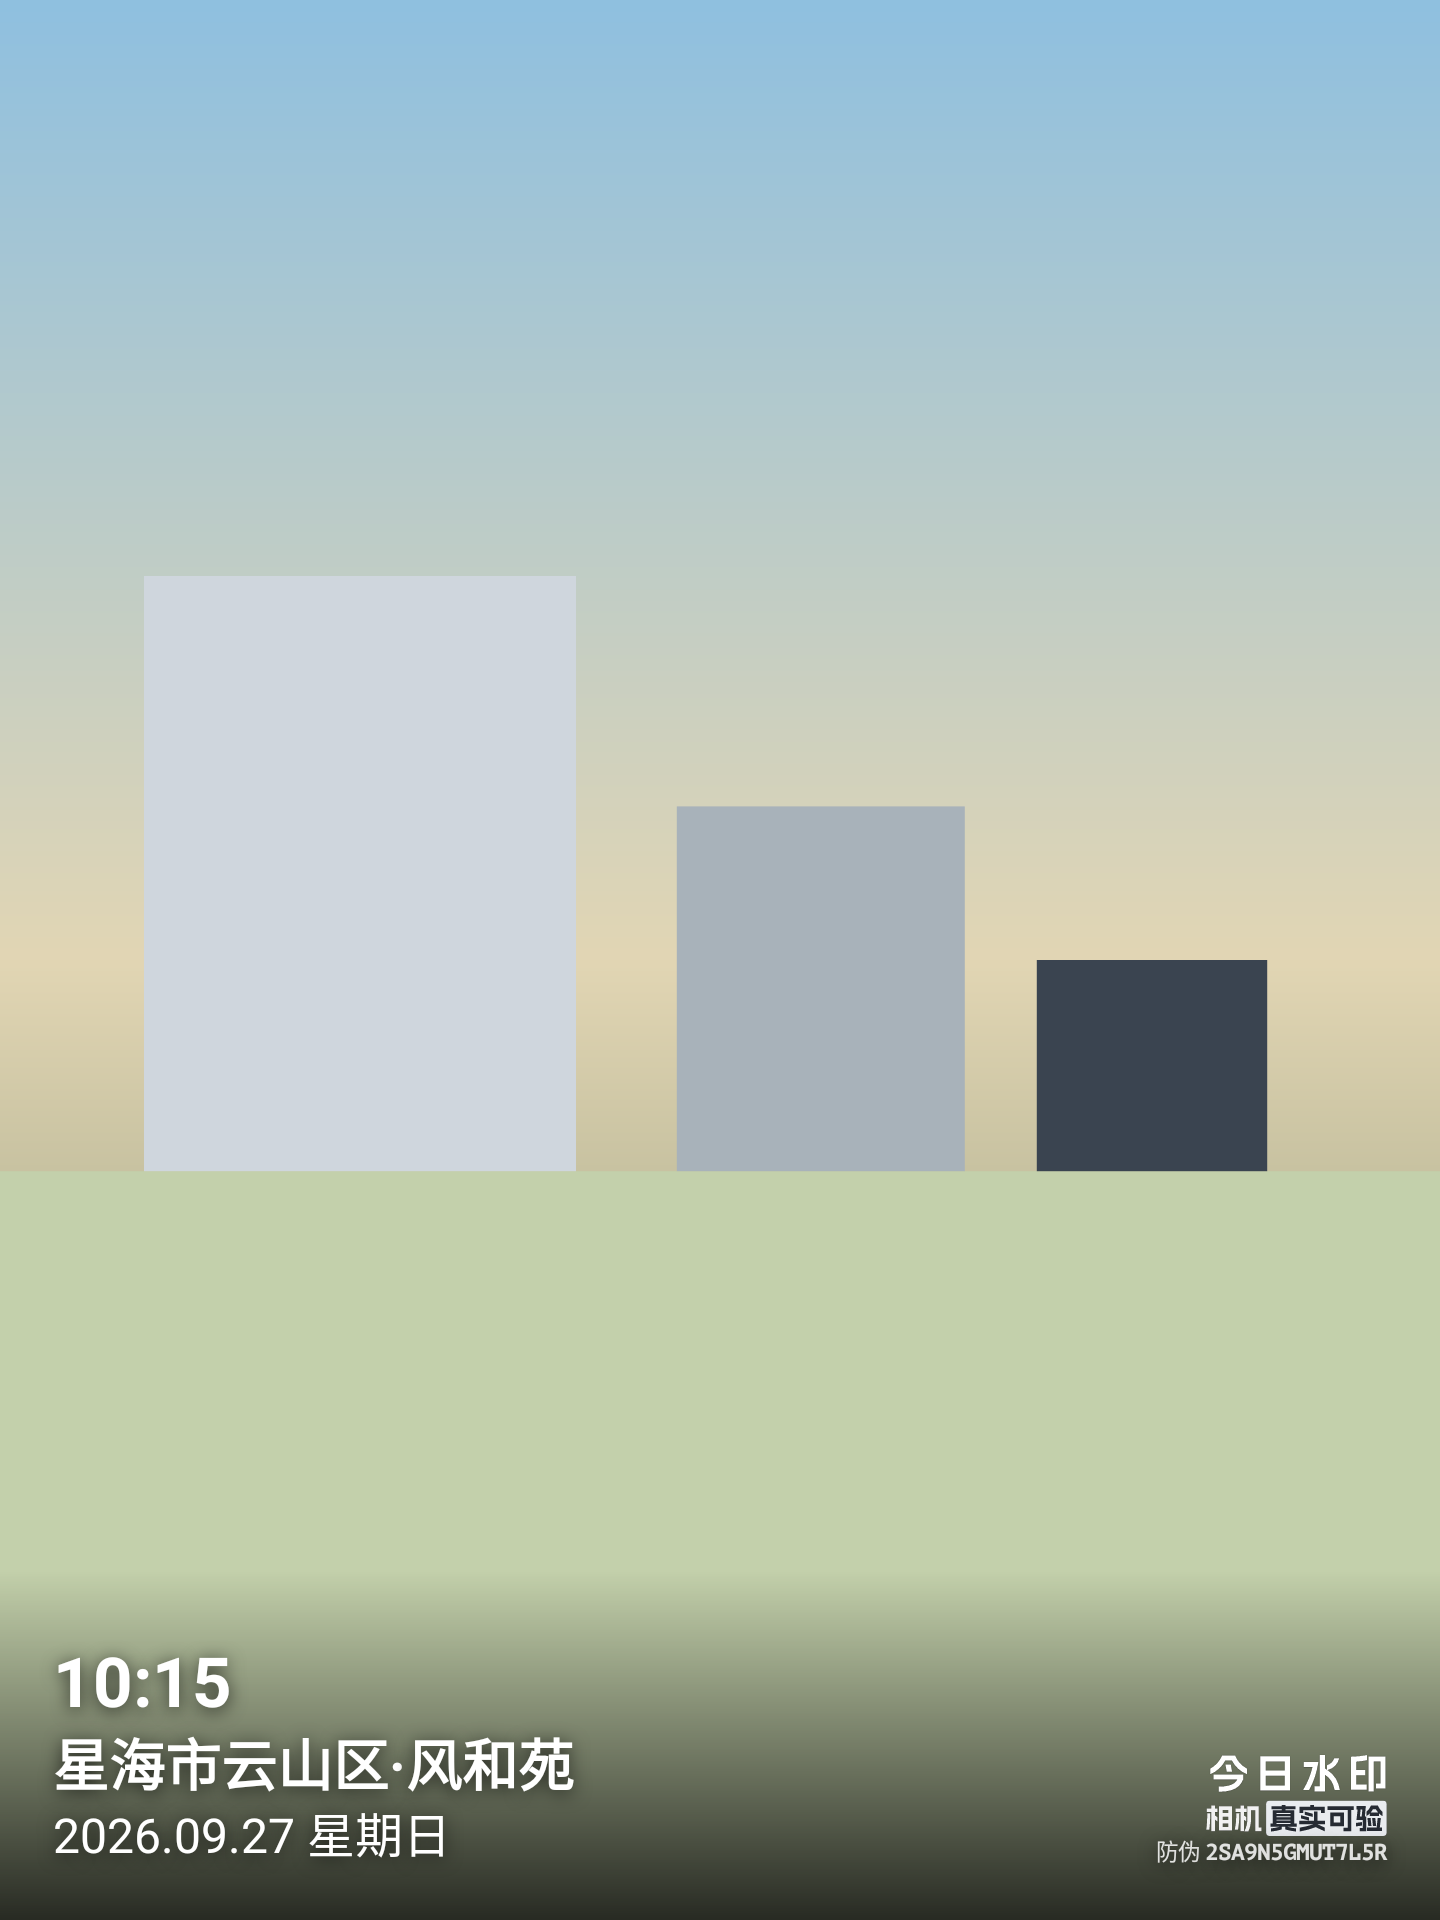
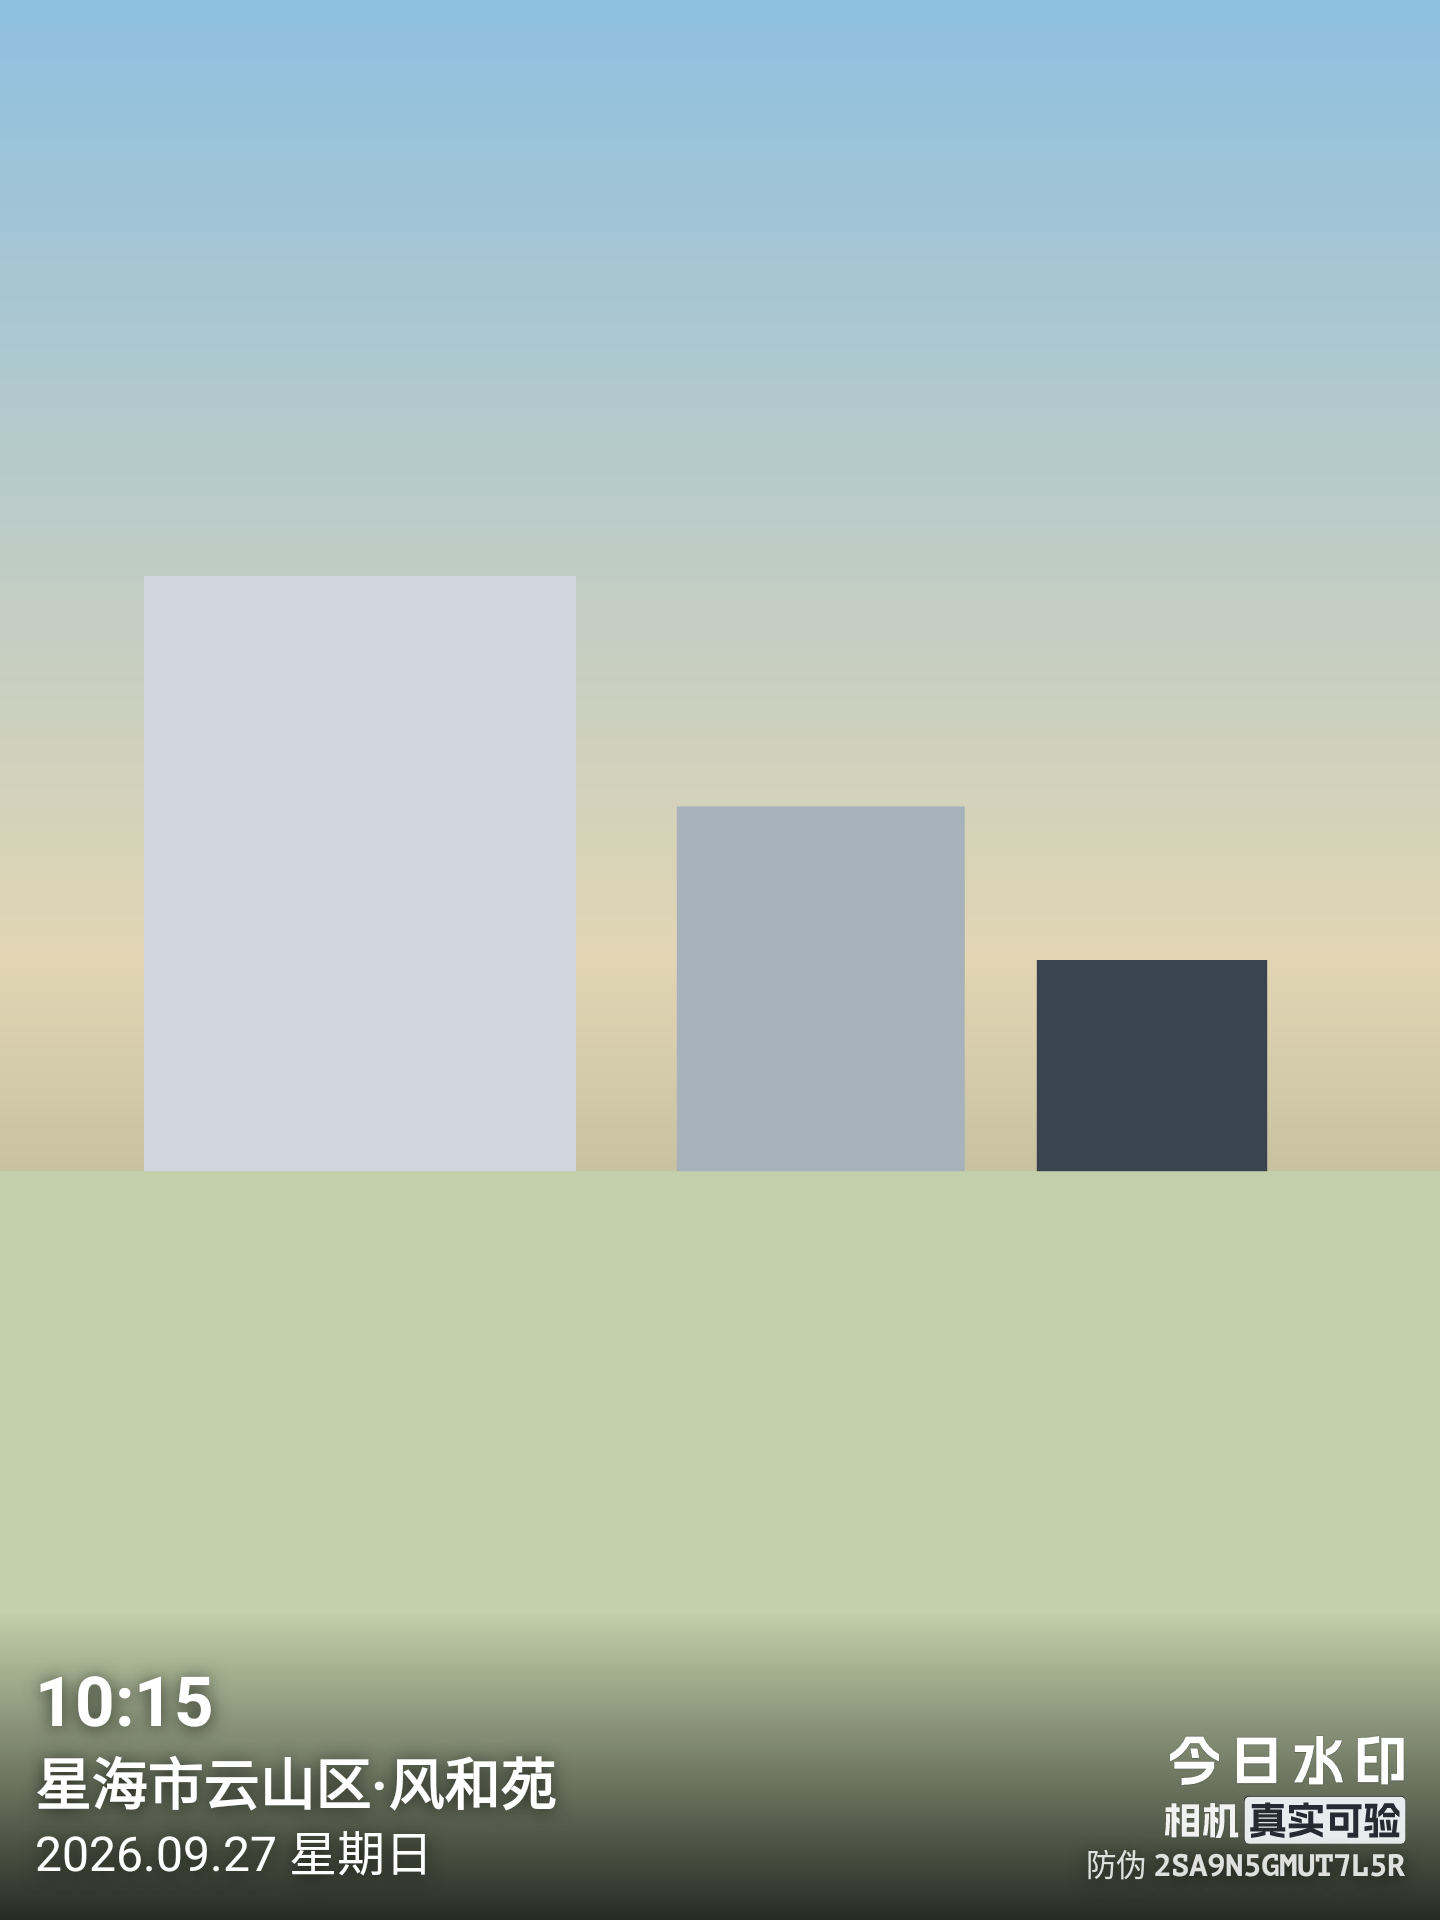
品牌区三行放大、整块更靠边靠下
用户看完上一版：「右下角那三行要大些，跟今日水印相机 app 的差不多大」、
「下方水印左右和下面都可以更靠边一点」，随后澄清「左边的够大了」——
所以只动品牌区字号，左侧正文一个字没碰。

字号（1080 基准）
  BrandMark.NAME_EM   30 → 40
  SLOGAN_EM           自动跟随（÷1.40）→ 28.6
  BRAND_CODE_EM       17 → 23（原来硬编码在 measureBrand 里，顺手提成常量）

  层级比 1 : 0.71 : 0.575 不变 —— 品牌区是一个整体，只放大名字那行会把层级搞乱。
  1440 宽画布下三行字号 40.0 / 28.6 / 22.7 → 53.3 / 38.1 / 30.7。

  为什么是 40：参考图（360×165 的品牌区裁切）只能反解**行与行的比例**，
  给不出绝对大小 —— 那块裁切在原照片里占多宽无从得知。所以从前一直沿用旧版的 30，
  观感偏小（品牌名 40.0 vs 左侧地点 56.0）。40 取的是"与地点行齐平略小"。

边距
  新增 PAD = 26（1080 基准；原来 40 硬编码在 4 处），一个值管左/右/下三边。
  1440 宽下 53.33 → 34.67；正文块底边 1866.67 → 1885.33，品牌区右边界 1386.67 → 1405.33。

  PAD 改成 internal：单测要按同一个数算期望值。写死一份 40f 的话，
  改了这里它不会报错、只会悄悄量错东西（已有两处这么写死，一并改掉）。

  没跟着改的：卡片内部的 40f（标签左右内边距 tagW、时间字号的起点与下限 40f*s / 30f*s）
  是另一个东西，代码注释里写明了。

连带
  内容区 w-2*40s → w-2*26s，条幅宽度上限 1333.33 → 1370.67（时间条实际 763.67，够用）。
  两块**墨迹**底边差 5px → 1px（品牌字号变大后那行的墨迹下沿更贴底）。

验证
  104 个单测全绿（渲染器 51 个）；17 张渲染图重出。
  灰块纯色 1387 → 3010 px（宽 160 ≈ 预期 160.8），块内深字 1071 → 2340 px。
  长地名行为不变：29 字仍缩到 47.6%（下限 45%），行宽 754.0 ≤ 时间条 763.67。
  debug 11.56MB / release 8.29MB，内容与签名验收通过。

README：§3.9 改写绝对大小的来历（参考图给不出绝对尺寸）、新增 §3.13 讲边距、
  §3.11 的墨迹差、§五 全部实测数字、§六 真机状态表，同步更新。

Changed region(s): [[0.0312, 0.8438, 0.4062, 1.0], [0.75, 0.9062, 1.0, 1.0]]

diff --git a/app/src/main/java/com/daka/watermarkcamera/WatermarkRenderer.kt b/app/src/main/java/com/daka/watermarkcamera/WatermarkRenderer.kt
@@ -26,6 +26,22 @@ object WatermarkRenderer {
     private const val BASE = 1080f
 
     /**
+     * 水印距画面**左/右/下**三边的边距（1080 基准）。三者共用一个值。
+     *
+     * 从 40 收到 26（-35%）是照着"再靠边一点、再靠下一点"改的。
+     * 原来 40 是按网页版的呼吸感定的，但网页版是**看**的（图片周围是浏览器留白），
+     * 相机是**拍**的 —— 成图四周没有留白可言，水印该像官方水印那样压到边上去一点。
+     *
+     * 不分开成"左右一个、下方一个"：这个值同时决定左边正文块的起点、右边品牌区的终点、
+     * 以及整个下方块的基线（`h - pad`）。拆成两个值就会出现"左右收窄了、底边还是老位置"
+     * 或者反过来的半吊子状态，改版式时还得记住两个数的关系。
+     *
+     * 注意：卡片内部那些 `40f * s` 是**别的东西**（标签左右内边距、时间字号起点），别跟着改。
+     */
+    /* internal 而非 private：单测要按同一个数算期望值，写死一份迟早对不上 */
+    internal const val PAD = 26f
+
+    /**
      * 「打卡」标签的配色：琥珀黄底 + 深色字。
      * 黄底上压白字对比度只有 1.9:1，基本看不清，所以字必须跟着改深色。
      */
@@ -63,6 +79,15 @@ object WatermarkRenderer {
     internal const val KIND_TEXT = 0
     internal const val KIND_ADDR = 1
     internal const val KIND_DATE = 2
+
+    /**
+     * 防伪码那行的基准字号（1080 基准）—— 品牌区三行里最小的那一行。
+     *
+     * 跟随 [BrandMark.NAME_EM] 一起放大（17 → 23，同 ×1.35），层级比
+     * 1 : 0.71 : 0.575 保持不变：品牌区是一个整体，
+     * 只放大其中一行会把"名字 > 标语 > 校验码"的层级关系搞乱。
+     */
+    private const val BRAND_CODE_EM = 23f
 
     /** 正文块与品牌区之间至少留的横向间隙（1080 基准） */
     private const val BRAND_GAP_X = 16f
@@ -218,7 +243,7 @@ object WatermarkRenderer {
          * 横屏时若仍按宽度算，s 会从 1.33 涨到 1.78，水印被放大近 40% 且糊出屏幕。
          */
         val s = min(w, h) / BASE
-        val pad = 40f * s
+        val pad = PAD * s
         val cardH = if (cfg.showCard) CARD_H * s else 0f
         val lines = buildLines(cfg, now, loc)
 
@@ -514,7 +539,7 @@ object WatermarkRenderer {
     ): BrandLayout? {
         if (!cfg.showBrand) return null
 
-        val pad = 40f * s
+        val pad = PAD * s
         val maxW = w - pad * 2f
 
         val rows = ArrayList<BrandRow>(3)
@@ -532,7 +557,8 @@ object WatermarkRenderer {
                 if (it == BrandMark.NAME) {
                     BrandRow(listOf(BrandSeg(it, false)), BrandMark.NAME_EM * s, true, ART_NAME)
                 } else {
-                    BrandRow(listOf(BrandSeg(it, false)), 30f * s, true)
+                    /* 改过名字就退回字体渲染，但字号跟矢量稿保持一致 —— 换字体不该顺手换大小 */
+                    BrandRow(listOf(BrandSeg(it, false)), BrandMark.NAME_EM * s, true)
                 }
             )
         }
@@ -552,7 +578,7 @@ object WatermarkRenderer {
                     BrandRow(
                         /* 标签就两个字「防伪」—— 后面跟的就是码本身，再写一个「码」字是重复。 */
                         listOf(BrandSeg("防伪 ", false), BrandSeg(code, true)),
-                        17f * s,
+                        BRAND_CODE_EM * s,
                         false
                     )
                 )
@@ -1092,8 +1118,8 @@ object WatermarkRenderer {
         val p = Paint(Paint.ANTI_ALIAS_FLAG)
         val s = min(w, h) / BASE
         val b = measureBrand(w, s, cfg, now, loc, p)
-            ?: return floatArrayOf(0f, w, w, 40f * s)
-        return floatArrayOf(b.w, b.right, w, 40f * s)
+            ?: return floatArrayOf(0f, w, w, PAD * s)
+        return floatArrayOf(b.w, b.right, w, PAD * s)
     }
 
     /** 供测试断言卡片版式：返回 [卡片宽, 画布宽, 单侧边距, 时间字号] */
@@ -1105,7 +1131,7 @@ object WatermarkRenderer {
         now: Calendar
     ): FloatArray {
         val s = min(w, h) / BASE
-        val pad = 40f * s
+        val pad = PAD * s
         val cardH = if (cfg.showCard) CARD_H * s else 0f
         val p = Paint(Paint.ANTI_ALIAS_FLAG)
         val l = measureCard(w, s, cardH, pad, logo, cfg, now, p)

diff --git a/app/src/main/java/com/daka/watermarkcamera/BrandMark.kt b/app/src/main/java/com/daka/watermarkcamera/BrandMark.kt
@@ -38,7 +38,9 @@ import android.graphics.RectF
  * - 行2 后面那个灰块 = 「真实可验」的**墨迹框四周各留 0.15 em**，
  *   不是按基线对齐 —— 按基线算出来的位置与图上差了 9px。
  *
- * 字号本身沿用原来的 30 s（行2 = 30/1.40），比例对了，绝对大小就与旧版一致。
+ * **参考图给不出绝对大小**，只能给比例：那块裁切在原照片里占多宽无从得知。
+ * 所以字号是单独定的 —— 最初沿用 30s（与旧版一致），后来按观感提到 40s，
+ * 依据见 [NAME_EM] 的注释。
  */
 internal object BrandMark {
 
@@ -46,8 +48,19 @@ internal object BrandMark {
     const val NAME = "今日水印"
     const val SLOGAN = "相机真实可验"
 
-    /** 行1 基准字号（×s，s 是水印的归一化系数） */
-    const val NAME_EM = 30f
+    /**
+     * 行1 基准字号（×s，s 是水印的归一化系数）。
+     *
+     * 30 → **40**：原来的 30 是"旧版就是这个数"，不是从参考图量出来的 ——
+     * 参考图（360×165 的品牌区裁切）只能反解**行与行的比例**（1.40），
+     * 给不出绝对大小：那块裁切在原照片里占多宽，无从得知。
+     * 所以当年比例对了、绝对大小却一直偏小，观感上明显不如官方水印压得住。
+     *
+     * 40 这个数取的是"与左侧地点行（42f）齐平略小"——官方水印里品牌名和地点
+     * 是同一量级的两个信息块，一个 30 一个 42 会显得右下角是附注而不是标识。
+     * 行2/行3 自动跟随（÷1.40 与 BRAND_CODE_EM），层级关系不变。
+     */
+    const val NAME_EM = 40f
 
     /** 行2 基准字号 = 行1 ÷ 1.40 */
     const val SLOGAN_EM = NAME_EM / 1.40f

diff --git a/app/src/test/java/com/daka/watermarkcamera/WatermarkRendererTest.kt b/app/src/test/java/com/daka/watermarkcamera/WatermarkRendererTest.kt
@@ -526,7 +526,7 @@ class WatermarkRendererTest {
 
     private val mW = 1440f
     private val mH = 1920f
-    private val mPad get() = 40f * (mW / 1080f)
+    private val mPad get() = WatermarkRenderer.PAD * (mW / 1080f)
 
     @Test
     fun 底部对齐_正文块与品牌区共用同一个底边() {
@@ -894,8 +894,8 @@ class WatermarkRendererTest {
         }
         println("品牌区墨迹 $ink px  左=$leftMost 右=$rightMost  画布宽=${bmp.width}")
         assertTrue("品牌区一个白像素都没有 —— 矢量路径没画出来", ink > 3000)
-        /* s=1.333，pad = 40*s ≈ 53.3 → 右边界应贴住 1440-53.3 ≈ 1387 */
-        val pad = 40f * (1440f / 1080f)
+        /* s=1.333、PAD=26 → 单侧边距 ≈ 34.7 → 右边界应贴住 1440-34.7 ≈ 1405 */
+        val pad = WatermarkRenderer.PAD * (1440f / 1080f)
         assertEquals("品牌区应右对齐贴住右侧边距", bmp.width - pad, rightMost.toFloat(), 3f)
         assertTrue("左边界不能顶出画面", leftMost > 200)
 
